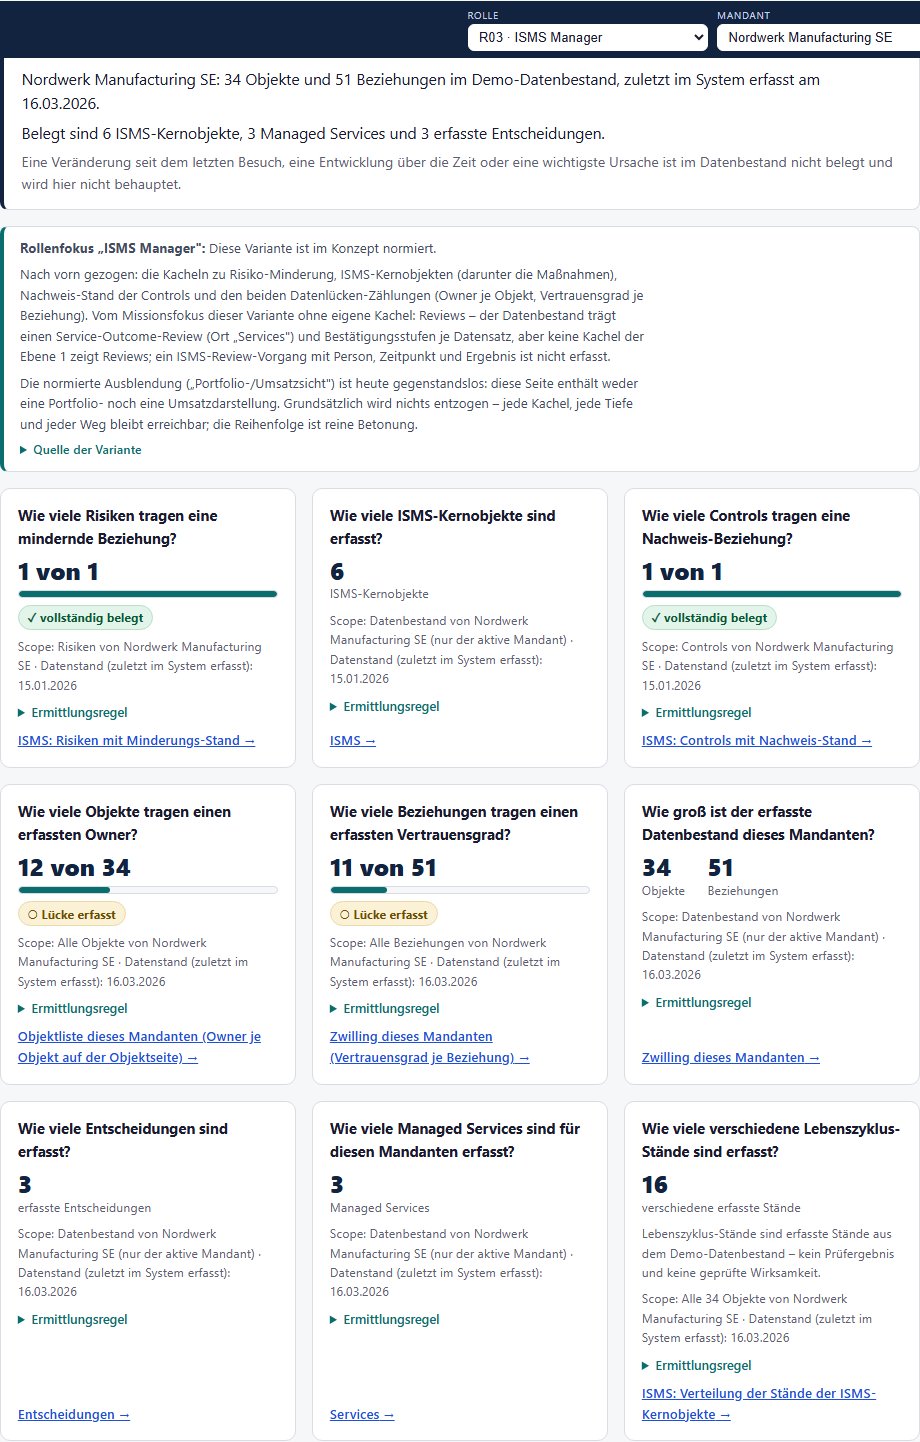
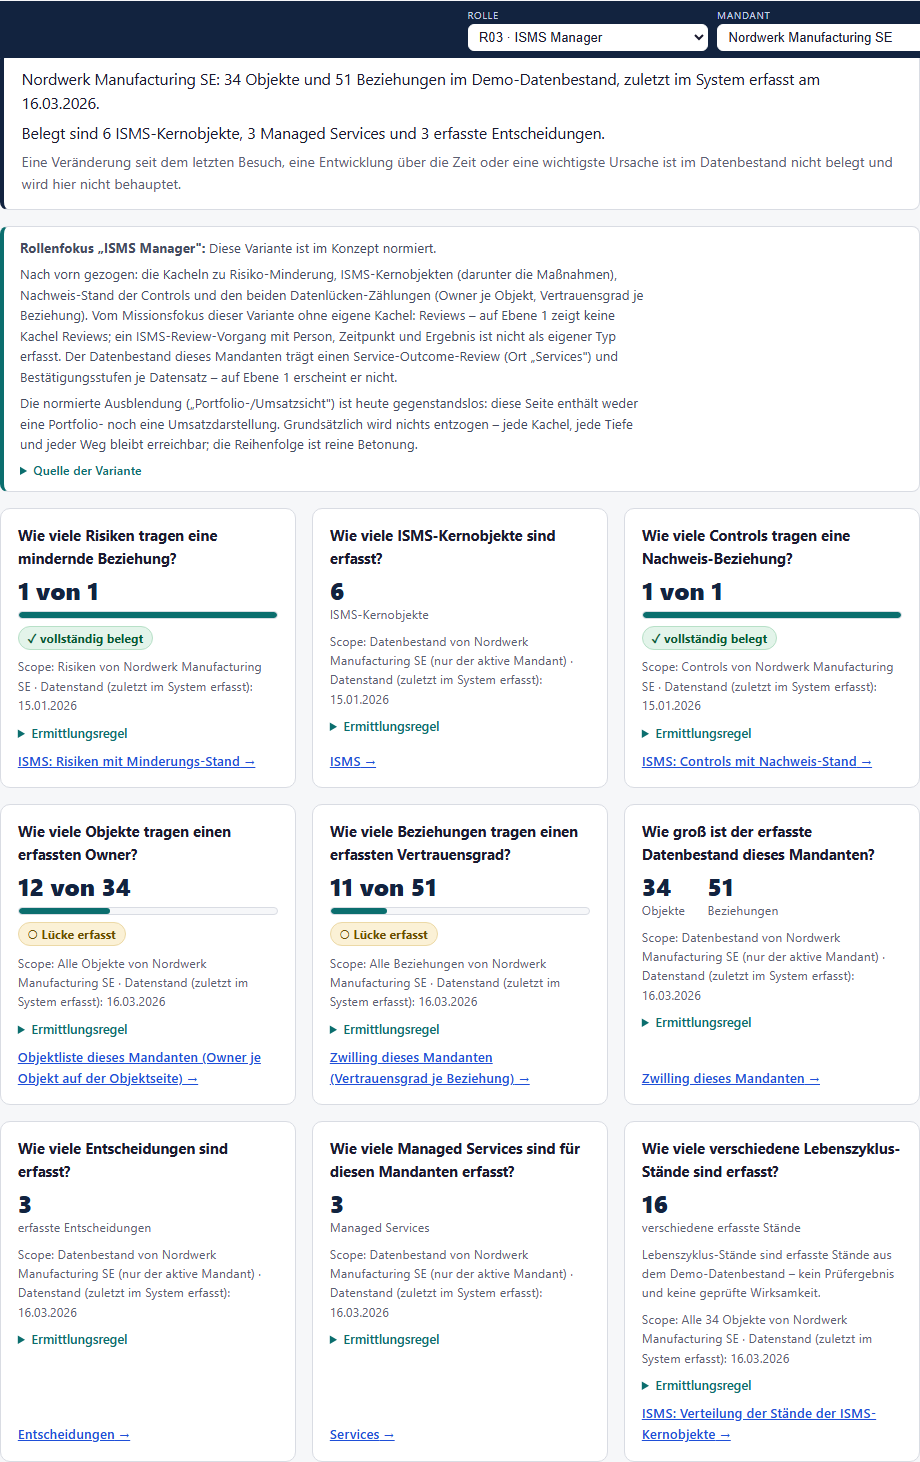
fix(web): WP-020 zweiter Nachfix - alle Zweitrunden-Auflagen (6 Gates)
- Domain #1 (mittel): Review-Existenzsatz mandantenabhaengig - fokusLueckenText mandant-
  invariant, hatReview im Dashboard-Modell abgeleitet, fokusLueckenTextFuer ergaenzt die
  Existenzaussage NUR bei Mandanten mit Review (Operator hatte keinen -> vorher Fehlbehauptung)
- QA/Code F1: Regressionstest fuer den mandantenabhaengigen Lebenszyklus-Drilldown
  (Nordwerk -> /isms, Operator -> Objektliste; alter Bug 'immer /isms' waere jetzt rot)
- Code F5: Regressionstests fuer die Fokus-Rueckfuehrung (Abbrechen -> Select, Schliessen -> #inhalt)
- Domain N2: Wirkung-Carrier praezisiert (technischer Vertrag, Konzept-/PDF-Deckung offen;
  Prozesskennung bewusst NICHT im sichtbaren Text - Waechter fing CCP-004-Token)
- Product N1: 'Ebene 1'-Jargon aus dem ausgeloggten Login-Zustand entfernt
- O-WP020-19: Wirkung=teilweise als owner-gate-abhaengig registriert (CCP-004-Vorbehalt)
- Domain N3 aufgeloest: 08-D05 am PDF gegengelesen (korrekt statt 08-D07)

Tests: web 450 (+2 Regressionstests) frisch gruen; lint + typecheck gruen; axe unveraendert
(dlitem serious=0 auf 7 Seiten, nur Objekt-360-Altbestand); packages/* unveraendert

diff --git a/apps/web/lib/heute/rollenvarianten.ts b/apps/web/lib/heute/rollenvarianten.ts
@@ -181,11 +181,15 @@ export const ROLLENVARIANTEN: Readonly<Record<VariantId, Rollenvariante>> = {
       'Nach vorn gezogen: die Kacheln zu Risiko-Minderung, ISMS-Kernobjekten (darunter die ' +
       'Maßnahmen), Nachweis-Stand der Controls und den beiden Datenlücken-Zählungen ' +
       '(Owner je Objekt, Vertrauensgrad je Beziehung).',
+    // MANDANT-INVARIANTER Kern (wahr für JEDEN Mandanten): keine Ebene-1-Kachel zeigt Reviews,
+    // und ein ISMS-Review-Vorgang als eigener Typ ist nicht erfasst. Die mandantenspezifische
+    // Existenzaussage über einen vorhandenen Service-Outcome-Review ergänzt `fokusLueckenTextFuer`
+    // NUR, wenn der aktive Mandant wirklich ein `Review`-Objekt trägt (Domain-Review 2. Runde:
+    // der statische Satz war für den Consulting Operator – ohne Review – eine Fehlbehauptung).
     fokusLueckenText:
-      'Vom Missionsfokus dieser Variante ohne eigene Kachel: Reviews – der Datenbestand ' +
-      'trägt einen Service-Outcome-Review (Ort „Services") und Bestätigungsstufen je ' +
-      'Datensatz, aber keine Kachel der Ebene 1 zeigt Reviews; ein ISMS-Review-Vorgang mit ' +
-      'Person, Zeitpunkt und Ergebnis ist nicht erfasst.',
+      'Vom Missionsfokus dieser Variante ohne eigene Kachel: Reviews – auf Ebene 1 zeigt keine ' +
+      'Kachel Reviews; ein ISMS-Review-Vorgang mit Person, Zeitpunkt und Ergebnis ist nicht als ' +
+      'eigener Typ erfasst.',
     ausblendungText:
       'Die normierte Ausblendung („Portfolio-/Umsatzsicht") ist heute gegenstandslos: diese ' +
       `Seite enthält weder eine Portfolio- noch eine Umsatzdarstellung. ${ERREICHBARKEIT}`,
@@ -326,6 +330,23 @@ export function fokusBelegtTextFuer(
     (alleLeer
       ? ' Für den aktiven Mandanten tragen diese Kacheln derzeit keinen Bestand – sie benennen ihre Lücke selbst.'
       : ' Für den aktiven Mandanten tragen nicht alle diese Kacheln Bestand – die betroffenen benennen ihre Lücke selbst.')
+  );
+}
+
+/**
+ * SICHTBARER Fokus-Lückentext FÜR DEN AKTIVEN MANDANTEN (Domain-Review 2. Runde): der
+ * `fokusLueckenText` ist mandant-invariant. Nur der ISMS-Manager benennt zusätzlich einen
+ * konkret VORHANDENEN Service-Outcome-Review – und das ausschließlich, wenn der aktive Mandant
+ * wirklich ein `Review`-Objekt trägt (`hatReview`). Sonst bliebe es eine Fehlbehauptung
+ * (Consulting Operator hat keinen Review). Der Zusatz hängt hinten an, damit der Basistext
+ * Präfix bleibt (bestehende `toContain`-Prüfungen greifen unverändert).
+ */
+export function fokusLueckenTextFuer(variante: Rollenvariante, hatReview: boolean): string {
+  if (variante.id !== 'isms_manager' || !hatReview) return variante.fokusLueckenText;
+  return (
+    `${variante.fokusLueckenText} Der Datenbestand dieses Mandanten trägt einen ` +
+    'Service-Outcome-Review (Ort „Services") und Bestätigungsstufen je Datensatz – auf Ebene 1 ' +
+    'erscheint er nicht.'
   );
 }
 

diff --git a/apps/web/lib/heute/__tests__/rollenvarianten.test.ts b/apps/web/lib/heute/__tests__/rollenvarianten.test.ts
@@ -18,6 +18,7 @@ import {
   NORMIERTE_ROLLEN,
   ROLLENVARIANTEN,
   WELT_VARIANTE,
+  fokusLueckenTextFuer,
   kachelOrdnungForRole,
   varianteForRole,
 } from '../rollenvarianten';
@@ -82,6 +83,25 @@ describe('ROLLENVARIANTEN – die vier normierten Zeilen aus Dok. 06', () => {
       const sichtbar = `${variante.fokusBelegtText} ${variante.fokusLueckenText} ${variante.ausblendungText}`;
       expect(sichtbar, id).not.toMatch(/kommt bald|in Kürze|geplant für|Roadmap/i);
       expect(sichtbar, id).not.toMatch(/\bScore\b|Ampel|Reifegrad|\bTrend|empfohlen|Empfehlung/i);
+    }
+  });
+
+  it('fokusLueckenTextFuer: Review-Existenz nur bei Mandanten MIT Review (Domain-Fix 2. Runde)', () => {
+    const ismsManager = ROLLENVARIANTEN.isms_manager;
+    // Der mandant-invariante Kern behauptet keine Review-Existenz.
+    expect(ismsManager.fokusLueckenText).not.toMatch(/trägt einen/);
+    expect(ismsManager.fokusLueckenText).toMatch(/keine\s+Kachel Reviews/);
+    // Mandant MIT Review: die Existenzaussage wird ergänzt, Basistext bleibt Präfix.
+    const mitReview = fokusLueckenTextFuer(ismsManager, true);
+    expect(mitReview.startsWith(ismsManager.fokusLueckenText)).toBe(true);
+    expect(mitReview).toMatch(/trägt einen Service-Outcome-Review/);
+    // Mandant OHNE Review: KEINE Existenzaussage (der Consulting-Operator-Fehler von vorher).
+    expect(fokusLueckenTextFuer(ismsManager, false)).toBe(ismsManager.fokusLueckenText);
+    // Andere Varianten sind mandanteninvariant (kein Review-Zusatz, egal ob hatReview).
+    for (const id of ['executive', 'consultant', 'service_lead'] as const) {
+      expect(fokusLueckenTextFuer(ROLLENVARIANTEN[id], true)).toBe(
+        ROLLENVARIANTEN[id].fokusLueckenText,
+      );
     }
   });
 });

diff --git a/apps/web/lib/heute/__tests__/dashboard.test.ts b/apps/web/lib/heute/__tests__/dashboard.test.ts
@@ -29,6 +29,8 @@ import {
   type CoverageTile,
   type TileExplanation,
 } from '../dashboard';
+import { getPlace } from '../../shell/places';
+import { tenantDetailHref } from '../../twin/routes';
 import { fixtureObject } from './fixtures';
 
 const KATALOG: readonly string[] = [...new Set<string>(ALL_LIFECYCLE_STATUS)];
@@ -223,6 +225,23 @@ describe('Dashboard-Kacheln – jede Kachel erklärt sich selbst', () => {
       }
     });
   }
+
+  // Regressionswache (Review 2. Runde, Code/QA-Finding F1): der Lebenszyklus-Drilldown darf
+  // NICHT statisch auf `/isms` zeigen – für Mandanten ohne ISMS-Kernobjekte existiert dort keine
+  // Verteilung (toter Link auf den Leerzustand). Der alte Bug (immer `/isms`) hätte die
+  // generische „href.length > 0"-Prüfung oben bestanden; hier wird das Ziel je Zweig festgenagelt.
+  it('Lebenszyklus-Drilldown ist mandantenabhängig (F1): mit ISMS-Kern → /isms, sonst Objektliste', () => {
+    // Nordwerk trägt ISMS-Kernobjekte → Verteilung existiert → Drilldown auf /isms.
+    expect(buildHeuteDashboard(TENANT_ID.NORDWERK)?.lifecycleSummary?.drilldown.href).toBe(
+      getPlace('isms').href,
+    );
+    // Consulting Operator hat Objekte, aber keine ISMS-Kernobjekte → kein /isms-Ziel.
+    const operator = buildHeuteDashboard(TENANT_ID.CONSULTING_OPERATOR);
+    expect(operator?.lifecycleSummary?.drilldown.href).toBe(
+      tenantDetailHref(TENANT_ID.CONSULTING_OPERATOR),
+    );
+    expect(operator?.lifecycleSummary?.drilldown.href).not.toBe(getPlace('isms').href);
+  });
 
   it('Mandanten mit Datenbestand tragen einen Datenstand (Systemachse, Kalendertag)', () => {
     for (const tenantId of [TENANT_ID.NORDWERK, TENANT_ID.CONSULTING_OPERATOR]) {

diff --git a/apps/web/components/shell/HeuteView.tsx b/apps/web/components/shell/HeuteView.tsx
@@ -90,12 +90,14 @@ export function HeuteView() {
           <h2 style={{ marginTop: 0, border: 'none', padding: 0 }}>
             Nicht angemeldet (Simulation)
           </h2>
-          {/* DR-0009-Stand (Review-Pass Code-Finding): angemeldet wird nur mit dem Mandanten,
-              der Einstieg ist die neutrale Ebene 1 – keine Rollen-Voraussetzung behaupten. */}
+          {/* DR-0009-Stand (Review-Pass): angemeldet wird nur mit dem Mandanten, der Einstieg
+              ist der neutrale strategische Überblick – keine Rollen-Voraussetzung behaupten.
+              „Ebene 1" wird bewusst NICHT verwendet: der Begriff gehört zum Detailtiefe-Control,
+              das auf dieser Login-Gate-Seite gar nicht sichtbar ist (Product-Review F4/N1). */}
           <p style={{ marginTop: 0 }}>
             Es ist kein Mandant gewählt. Melden Sie sich in der Simulation mit einem Mandanten an,
-            um die neutrale strategische Ebene 1 zu sehen – die Rollenwahl ist danach optional in
-            der Kopfleiste möglich.
+            um den neutralen strategischen Überblick zu sehen – die Rollenwahl ist danach optional
+            in der Kopfleiste möglich.
           </p>
           <p style={{ marginBottom: 0 }}>
             <Link className="tw-cta" href="/login">

diff --git a/apps/web/components/shell/__tests__/mission-control.test.tsx b/apps/web/components/shell/__tests__/mission-control.test.tsx
@@ -45,6 +45,7 @@ import { framingForRole, MISSION_SECTIONS } from '../../../lib/heute/framing';
 import {
   KANONISCHE_KACHELORDNUNG,
   NORMIERTE_ROLLEN,
+  fokusLueckenTextFuer,
   kachelOrdnungForRole,
   varianteForRole,
 } from '../../../lib/heute/rollenvarianten';
@@ -965,11 +966,16 @@ describe('MissionControlContent – kein Score, keine Ampel, keine Empfehlung', 
         const fokusZuordnung = demoRole ? varianteForRole(demoRole.id) : null;
         const fokusVariante = fokusZuordnung?.variante ?? null;
         if (fokusVariante && tenantId !== TENANT_ID.FINOVIA) {
+          // Der GERENDERTE Lückentext ist mandantenabhängig (ISMS-Manager ergänzt die
+          // Review-Existenz nur, wenn der Mandant einen Review trägt) – exakt das strippen,
+          // was der Block wirklich zeigt, dieselbe Ableitung wie das Produkt (`hatReview`).
+          const hatReview = buildHeuteDashboard(tenantId)?.hatReview ?? false;
+          const gerendert = fokusLueckenTextFuer(fokusVariante, hatReview);
           expect(
             datentext,
             `${kennung}/${tenantId}: der Fokus-Lückentext steht nicht mehr im Text`,
-          ).toContain(fokusVariante.fokusLueckenText);
-          datentext = datentext.split(fokusVariante.fokusLueckenText).join(' ');
+          ).toContain(gerendert);
+          datentext = datentext.split(gerendert).join(' ');
         }
         // BEGRÜNDETE AUSNAHME (WP-020 Fix-Pass, Product F4): Bei NORMIERTEN Rollen rendert der
         // aufklappbare „Quelle der Variante"-Block die WÖRTLICHEN PDF-Spaltenzitate

diff --git a/apps/web/lib/heute/dashboard.ts b/apps/web/lib/heute/dashboard.ts
@@ -197,6 +197,13 @@ export interface HeuteDashboardModel {
   readonly lifecycleSummary?: LifecycleSummaryTile;
   readonly coverage: readonly CoverageTile[];
   readonly emptyTile?: EmptyTenantTile;
+  /**
+   * Trägt der AKTIVE Mandant mindestens ein Objekt vom Typ `Review` (F09)? Steuert die
+   * mandantenabhängige Review-Aussage des ISMS-Manager-Rollenfokus (Domain-Review 2. Runde:
+   * die Existenzaussage darf nicht statisch für jeden Mandanten gerendert werden – nur Nordwerk
+   * trägt einen Outcome-Review, der Consulting Operator nicht).
+   */
+  readonly hatReview: boolean;
 }
 
 /** Verdichteter Überblick für den Ort „ISMS" (volle Verteilung + zwei Abdeckungen). */
@@ -316,6 +323,7 @@ export function buildHeuteDashboard(tenantId: string): HeuteDashboardModel | und
       decisionRecordedOnDisplay: decisionRegister?.recordedOnDisplay,
     }),
     lifecycleSummary: buildLifecycleSummaryTile(tenant, objects, tenantFacts, !ismsCore.isEmpty),
+    hatReview: objects.some((o) => o.object_type === 'Review'),
     coverage: [
       buildControlsCoverageTile(tenant, ismsCore, {
         label: 'ISMS: Controls mit Nachweis-Stand',
@@ -686,6 +694,7 @@ function buildEmptyTenantModel(tenant: DemoTenant): HeuteDashboardModel {
     stockTiles: [],
     lifecycleSummary: undefined,
     coverage: [],
+    hatReview: false,
     emptyTile: {
       frage: 'Welche Datenlage hat dieser Mandant?',
       text:

diff --git a/apps/web/lib/entscheidungen/data.ts b/apps/web/lib/entscheidungen/data.ts
@@ -481,9 +481,10 @@ export const DECISION_CARD_FIELDS: readonly DecisionCardField[] = [
     coverage: 'teilweise',
     carrier:
       'Teil-Träger ist die Wirkungsannahme der Beziehung („effectiveness_assumption") – im ' +
-      'Vertrag vorhanden und im Datenbestand an Service-Beziehungen erfasst; die ' +
-      'Entscheidungs-Beziehungen dieses Datenbestands tragen sie nicht. Ein eigenes Feld für ' +
-      'erwartete Wirkung auf Risiko, Ziel, Service oder Zeit gibt es nicht.',
+      'technischen Vertrag vorhanden (die Konzept- und PDF-Deckung ist noch offen) und im ' +
+      'Datenbestand an Service-Beziehungen erfasst; die Entscheidungs-Beziehungen dieses ' +
+      'Datenbestands tragen sie nicht. Ein eigenes Feld für erwartete Wirkung auf Risiko, Ziel, ' +
+      'Service oder Zeit gibt es nicht.',
   },
   {
     field: 'Ressourcen',

diff --git a/apps/web/components/shell/__tests__/shell.test.tsx b/apps/web/components/shell/__tests__/shell.test.tsx
@@ -187,6 +187,9 @@ describe('AppShell – Mandantenwechsel nur mit Bestätigung (CROSS-TENANT-SCHUT
     // Die Rückmeldung ist schließbar (kein Timeout, keine Animation).
     fireEvent.click(within(status).getByRole('button', { name: 'Hinweis schließen' }));
     expect(status.textContent).toBe('');
+    // Fokus-Rückführung (Review Code F5): nach dem Schließen darf der Fokus nicht auf <body>
+    // fallen – er wandert auf den Seiteninhalt (Tastatur-/Screenreader-Position bleibt erhalten).
+    expect(document.getElementById('inhalt')).toHaveFocus();
   });
 
   it('Abbrechen (Button oder Escape) verwirft den Wechselwunsch ohne Callback', () => {
@@ -199,6 +202,9 @@ describe('AppShell – Mandantenwechsel nur mit Bestätigung (CROSS-TENANT-SCHUT
     expect(
       screen.queryByRole('group', { name: 'Mandantenwechsel bestätigen' }),
     ).not.toBeInTheDocument();
+    // Fokus-Rückführung (Review Code F5): nach „Abbrechen" kehrt der Fokus auf den
+    // Mandanten-Wechsler zurück, statt auf <body> zu fallen.
+    expect(screen.getByLabelText('Aktiven Mandanten wechseln (Simulation)')).toHaveFocus();
 
     // Escape bricht ebenfalls ab (Tastaturweg).
     fireEvent.change(screen.getByLabelText('Aktiven Mandanten wechseln (Simulation)'), {

diff --git a/apps/web/components/shell/MissionControlContent.tsx b/apps/web/components/shell/MissionControlContent.tsx
@@ -87,6 +87,7 @@ import {
   KANONISCHE_KACHELORDNUNG,
   KEINE_VARIANTE_TEXT,
   fokusBelegtTextFuer,
+  fokusLueckenTextFuer,
   varianteForRole,
   type TileId,
 } from '../../lib/heute/rollenvarianten';
@@ -465,7 +466,8 @@ function RollenfokusBlock({ role, dashboard }: { role: DemoRole; dashboard: Heut
             'keine Konzeptvorgabe.'}
       </p>
       <p className="rv-fokus-text">
-        {fokusBelegtTextFuer(variante, kachelLage(dashboard))} {variante.fokusLueckenText}
+        {fokusBelegtTextFuer(variante, kachelLage(dashboard))}{' '}
+        {fokusLueckenTextFuer(variante, dashboard.hatReview)}
       </p>
       <p className="rv-fokus-text">{variante.ausblendungText}</p>
       {herkunft === 'normiert' ? (

diff --git a/docs/project/OPEN_QUESTIONS.md b/docs/project/OPEN_QUESTIONS.md
@@ -164,6 +164,7 @@ Vollständige Herleitung: `work-packages/WP-020_VERDICHTUNG_DASHBOARD_EINSTIEG.m
 | O-WP020-16 | Deckt die Tabellenzeile „Consultant" (Dok. 06 Rollenvarianten) auch R09 Engagement Manager normativ ab, oder bleibt R09 Welt-Ableitung? | Konzeptfrage | konservativ: nur R10 normiert; R09/R11 Welt-Ableitung, reversibel | Concept Author / Owner |
 | O-WP020-17 | Dok. 06 verortet den Trust Layer „bei Risiko, Reifegrad, Empfehlung, Simulation und Report" — wo lebt die Vertrauensebene, sobald Bewertungs-Träger existieren (WP-021+)? | Konzeptfrage | Abgleich lebt auf Objekt-360 (einziger Ort mit belegten Vertrauensanzeigen) | Concept Author (WP-021-Umfeld) |
 | O-WP020-18 | Biome meldet die Komponenten-Prop `role={null}` fälschlich als ARIA-Attribut (`useValidAriaRole`) — 9 wortgleiche Suppressions in Testdateien. Konfigurationsoption `ignoreNonDom: true` oder Prop umbenennen? | Tooling-Folgeaufgabe (Code-Gate) | Suppressions bleiben eng und dokumentiert; Konfig-Änderung nur als eigener kleiner Tooling-Change mit Review | platform-devops + Code-Gate |
+| O-WP020-19 | „Wirkung"-Deckungsgrad des Decision-Card-Abgleichs (`/entscheidungen`) steht seit dem WP-020-Fix-Pass auf **teilweise** statt „kein Träger" – gestützt auf `effectiveness_assumption`, das **nicht PDF-gedeckt** ist (CCP-004 offen) und nur an Service-, nicht Entscheidungs-Beziehungen lebt. Domain-Gate bejaht (Konsistenz zum Trust-Layer), QA/Code sehen es als owner-gate-abhängig | Konzept-/Owner-Gate | user-sichtbar mit CCP-004-Vorbehalt im Trägertext; **fällt CCP-004 auf „Feld entfernen", fällt der Eintrag auf „kein Träger" zurück** (`data.ts` + `data.test.ts` + Zählassertions zurückzudrehen) | Owner (mit CCP-004) |
 
 ## Konzeptbibliothek (aus WP-023)
 